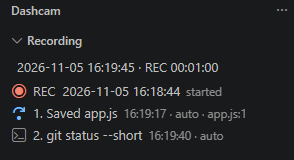
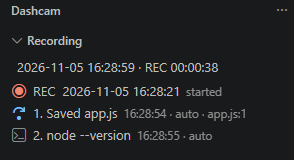
Make the demo app fail with a real error and retake the screenshots from a run with Node

diff --git a/examples/demo-app/app.js b/examples/demo-app/app.js
@@ -6,5 +6,10 @@ function average(numbers) {
   return total / numbers.length; // BUG: an empty list gives NaN
 }
 
-console.log("Average of [2, 4, 6]:", average([2, 4, 6]));
-console.log("Average of []:", average([]));
+function show(label, value) {
+  if (Number.isNaN(value)) throw new Error(`${label} is NaN`);
+  console.log(label, value);
+}
+
+show("Average of [2, 4, 6]:", average([2, 4, 6]));
+show("Average of []:", average([]));

diff --git a/examples/README.md b/examples/README.md
@@ -1,4 +1,4 @@
 # Examples
 
-- **[demo-app/app.js](demo-app/app.js):** a tiny program with a deliberate bug (`average([])` returns `NaN`). Open its folder in VS Code and follow [tutorial 1](../docs/tutorials/01-record-your-first-bug.md) to record it. It needs [Node.js](https://nodejs.org) to run, or just add the steps by hand.
+- **[demo-app/app.js](demo-app/app.js):** a tiny program with a deliberate bug (`average([])` returns `NaN`, and the program then stops with an error and exit code 1). Open its folder in VS Code and follow [tutorial 1](../docs/tutorials/01-record-your-first-bug.md) to record it. It needs [Node.js](https://nodejs.org) to run: install it, then run `node app.js` in the VS Code terminal.
 - **[sample-report.md](sample-report.md):** the kind of report Dashcam saves. The Environment values and times are examples.

diff --git a/docs/tutorials/01-record-your-first-bug.md b/docs/tutorials/01-record-your-first-bug.md
@@ -2,7 +2,7 @@
 
 About five minutes. You will switch the dashcam on, make something go wrong, and find the saved recording.
 
-You can use any project. If you want a bug on purpose, copy [examples/demo-app/app.js](../../examples/demo-app/app.js) into a folder and open that folder in VS Code. It averages a list of numbers and returns `NaN` for an empty list.
+You can use any project. If you want a bug on purpose, copy [examples/demo-app/app.js](../../examples/demo-app/app.js) into a folder and open that folder in VS Code. It averages a list of numbers, gets `NaN` for an empty list, and stops with an error. You need [Node.js](https://nodejs.org) installed to run it.
 
 ## 1. Switch it on
 
